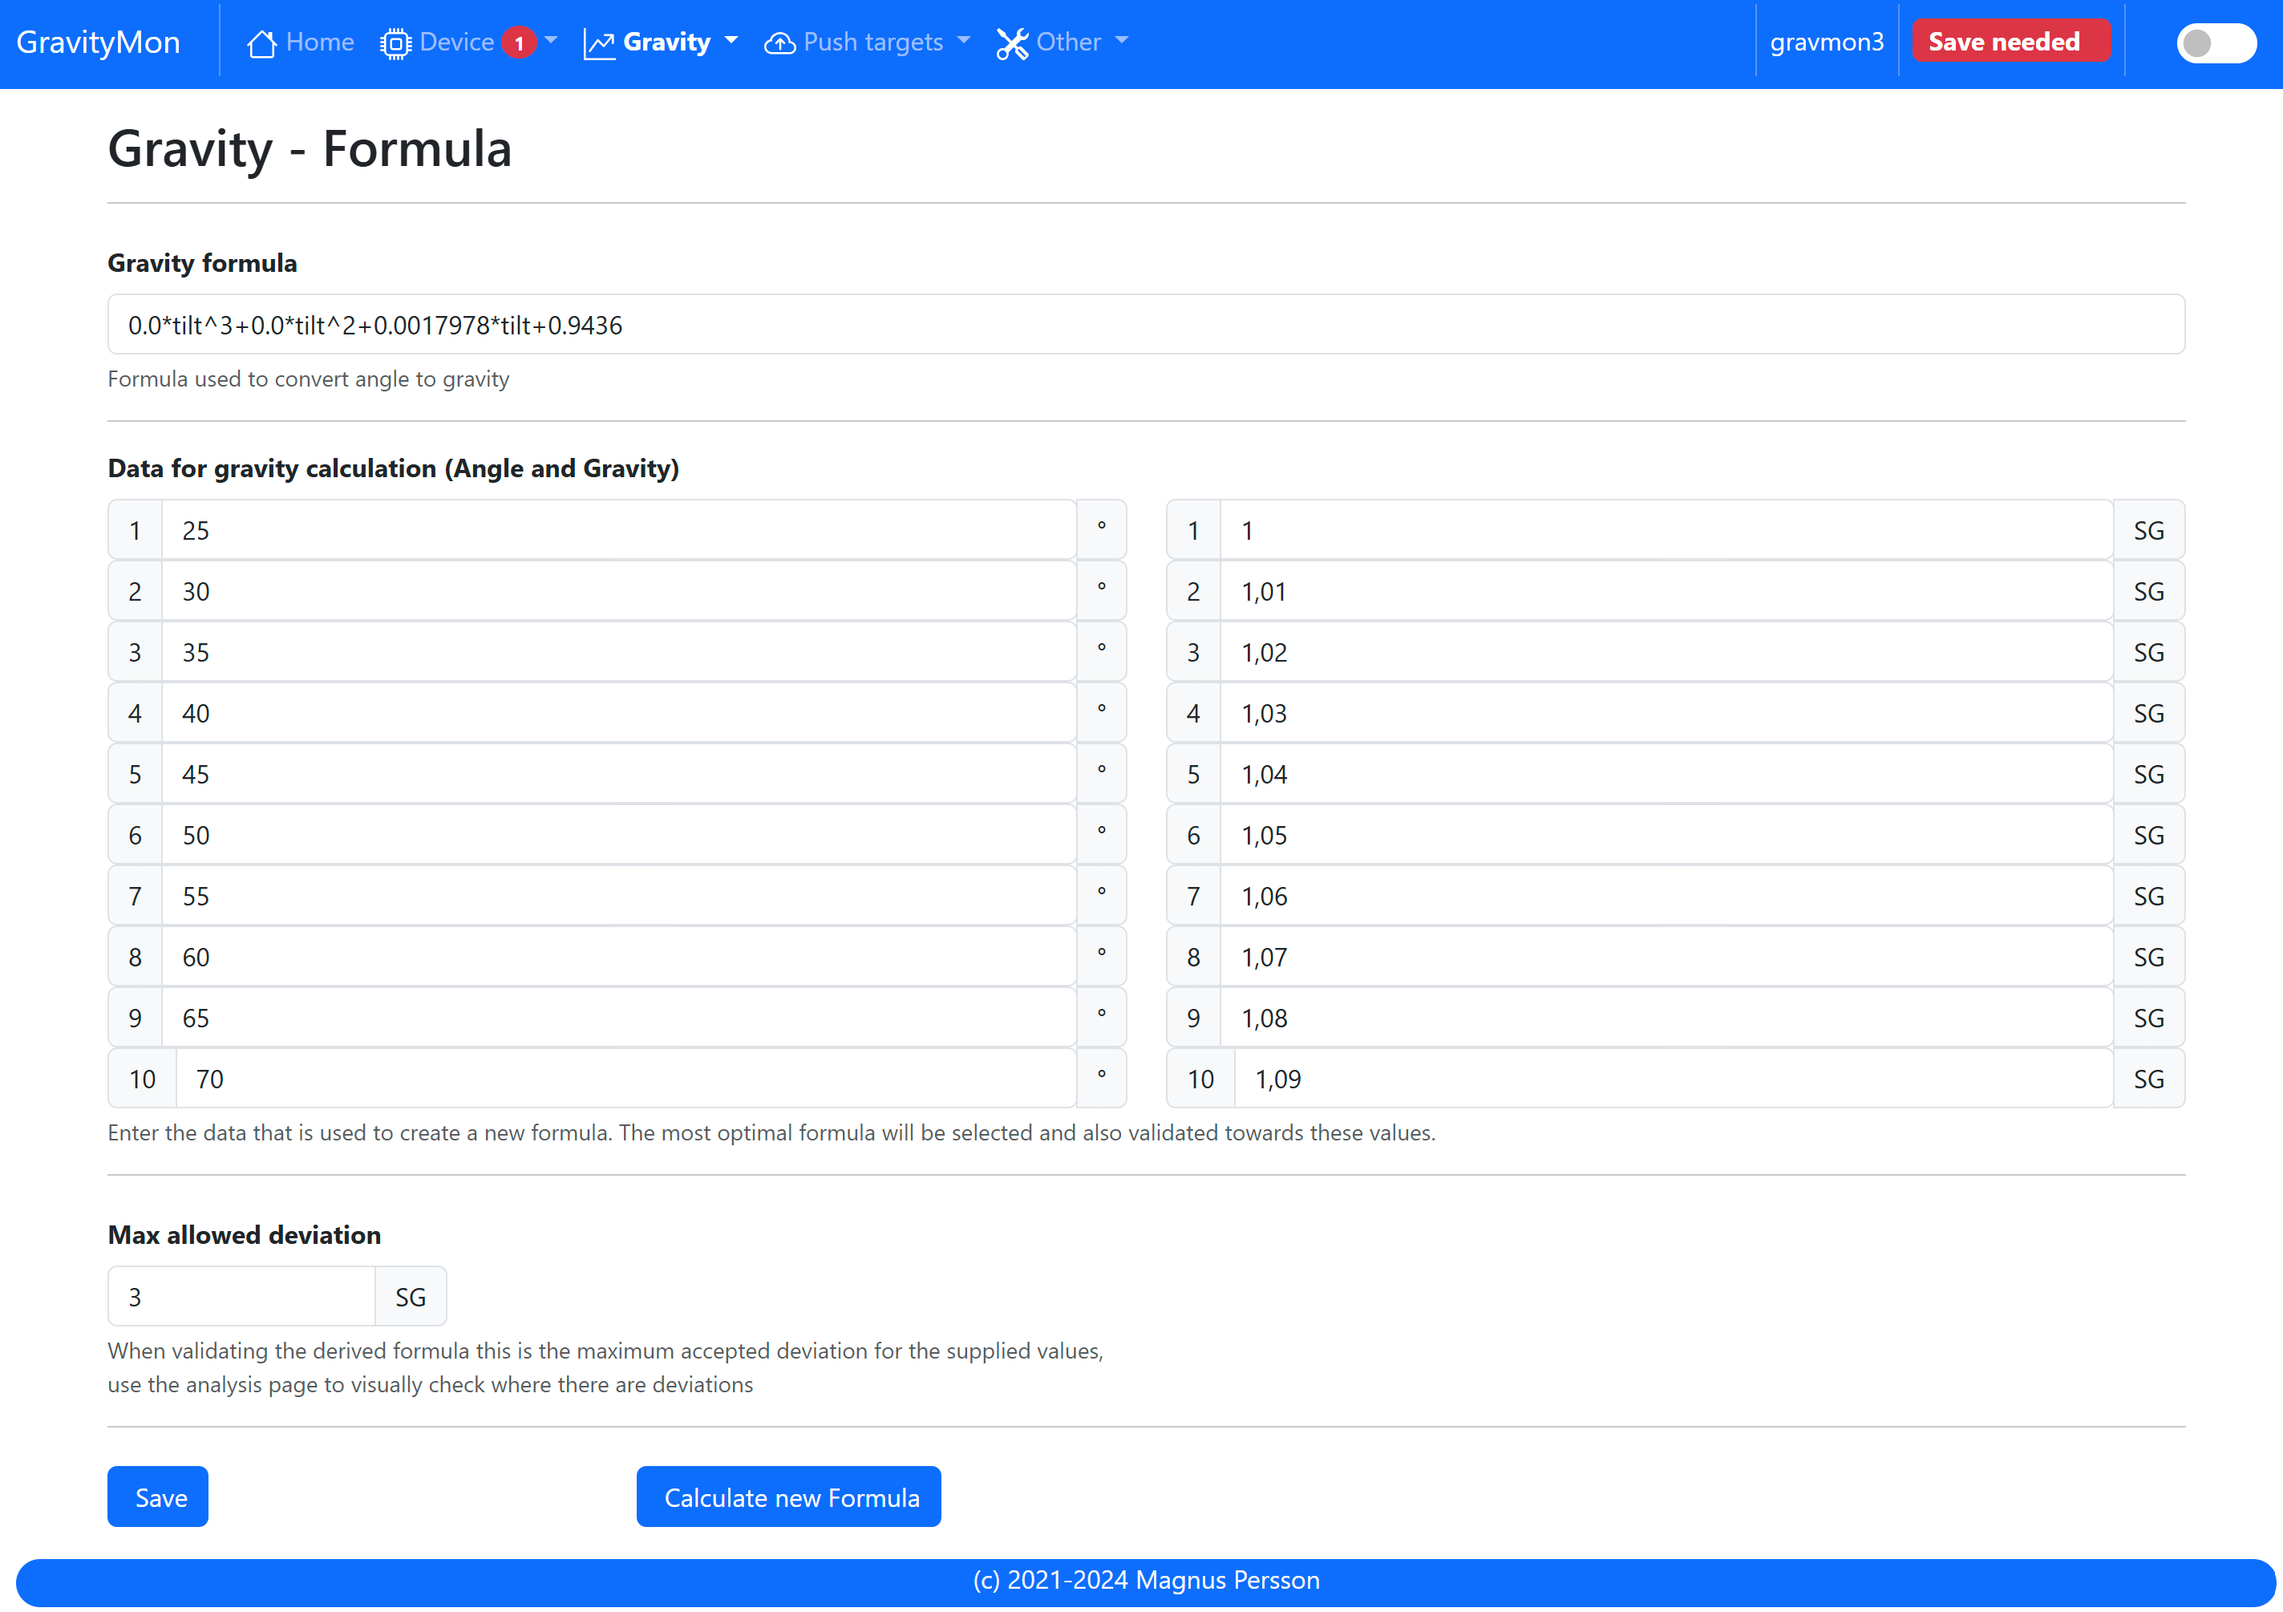
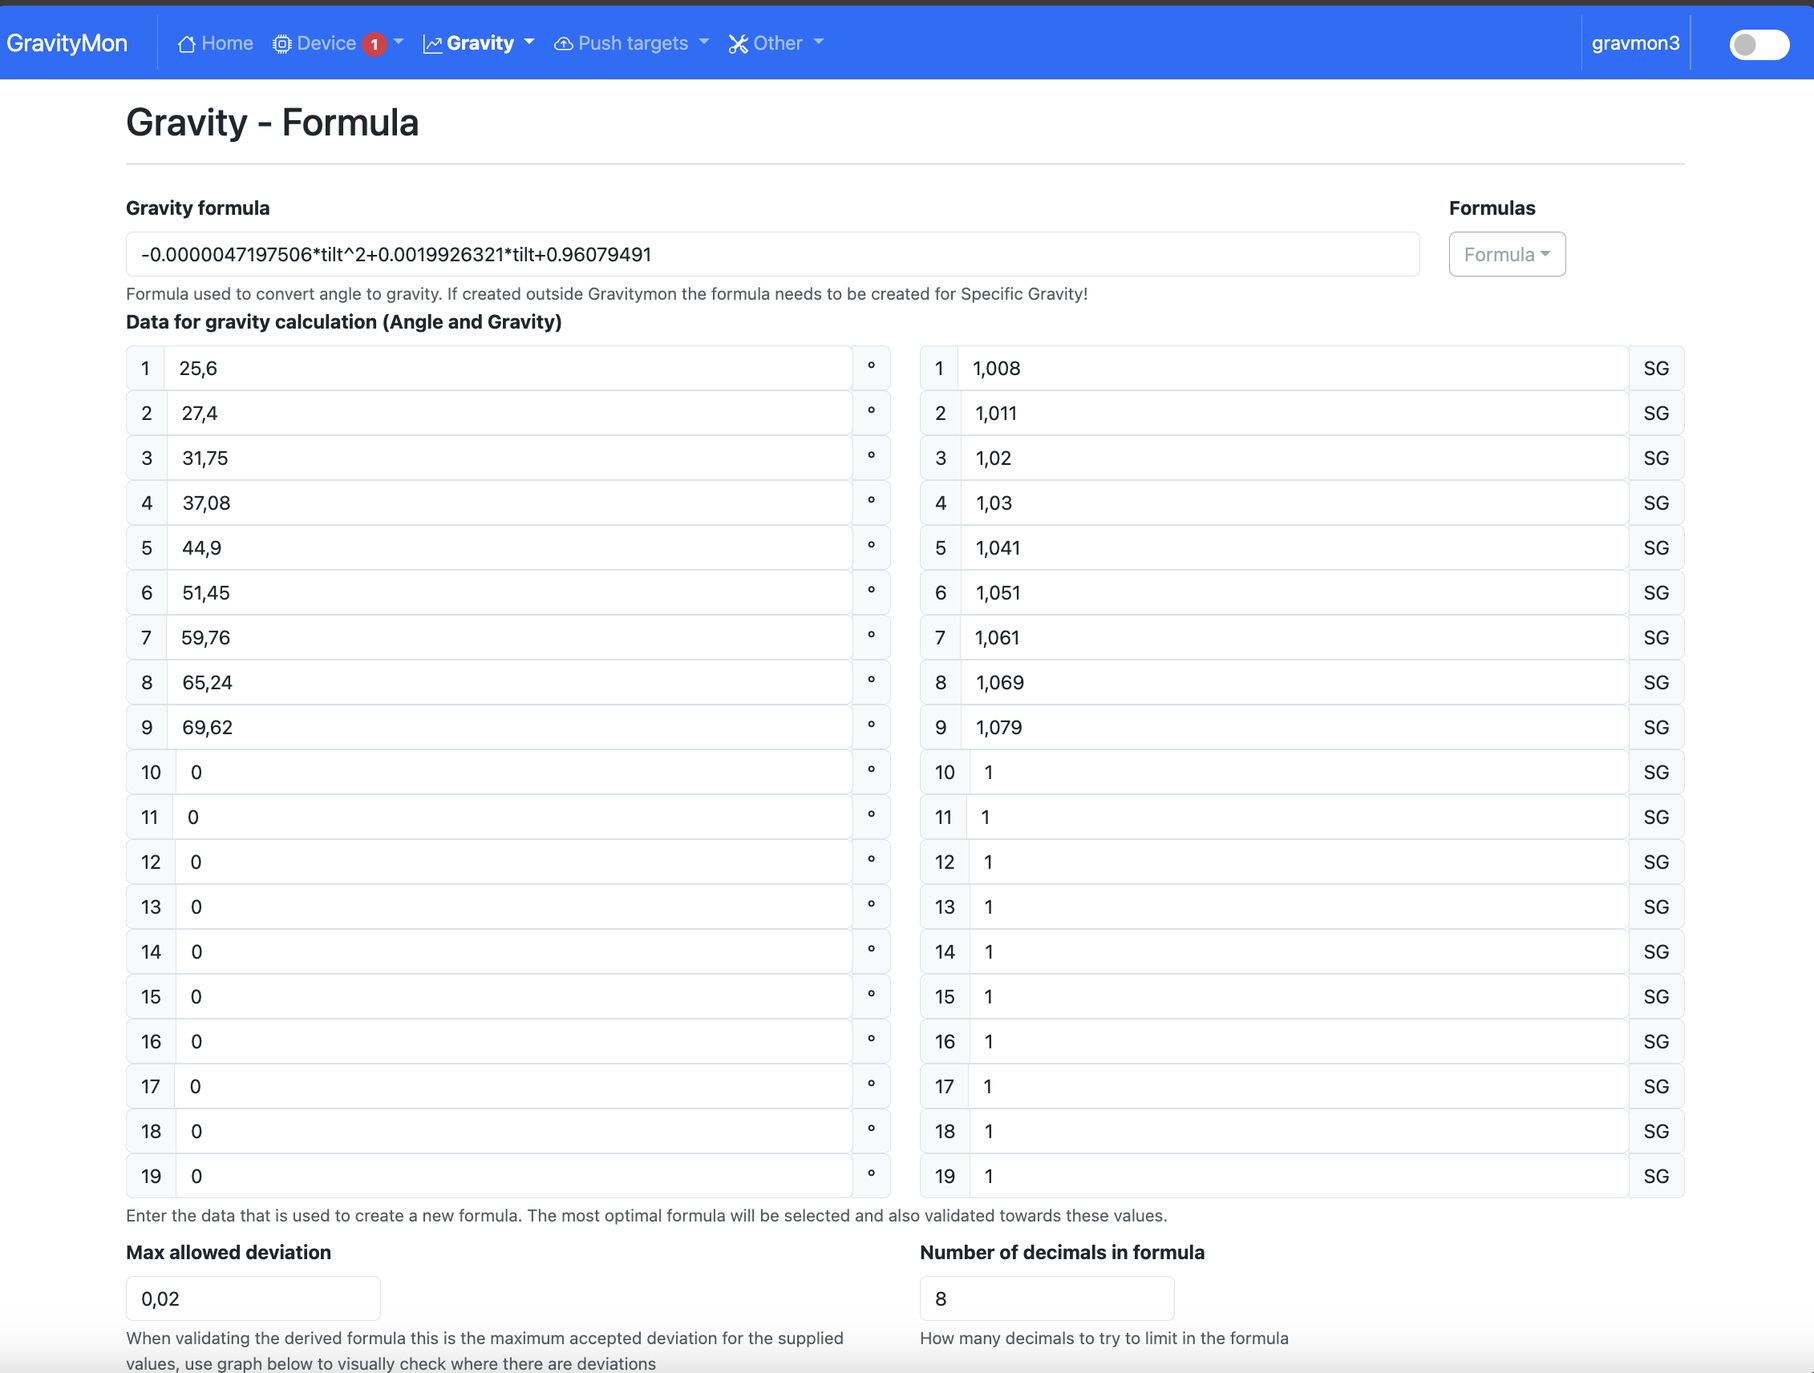
Formula creator docs

diff --git a/src_docs/source/configuration.rst b/src_docs/source/configuration.rst
@@ -246,48 +246,53 @@ Gravity - Formula
 
 * **Gravity formula:**
 
-  Gravity formula is compatible with standard iSpindle formulas so any existing calculation option can be used. You can also use 
-  the feature to create the formula by supplying the raw data. 
+  Gravity formula is syntax is the same as in the iSpindle, but the formula needs to be in SG since this is the internal format used. When choosing plato 
+  the SG value will be converted and presented as Plato. On this page to create the formula by supplying the raw data. If you use the internal formula
+  creator then you can enter data in plato and conversion will be handled in the device, the output formula will always be in SG.
 
   The gravity formula accepts two parameters, **tilt** for the angle or **temp** for temperature (temperature inserted into the formula 
   will be in celsius). I would recommend to use the formula calculation feature instead since this is much easier.
 
 * **Data for gravity calculation:**
 
-  Enter your gravity data SG + Angle. You can enter up to 10 datapoints. Order does not matter and values with zero as angle will be ignored.
+  Enter your gravity data SG + Angle. You can enter up to 20 datapoints. Order does not matter and values with zero as angle will be ignored.
 
 * **Max allowed deviation:**
 
   This is the maximum deviation on the formula allowed for it to be accepted. Once the formula has been derived it will be validated against the supplied 
-  data and of the deviation on any point is bigger the formula will be rejected.
+  data and of the deviation on any point is bigger the formula will be rejected. Example for SG can be 0.02 points or 0.5 for Plato. Setting a higher values
+  will allow you to see more options.
 
-* **Calculate new formula:**
+* **Calculate formula:**
 
-  When you submit the values the device will try create a formula with increasing level of complexity. It will start
-  with a order 2 formula and then try 3 and 4.
-
-  Once the formula has been created it will validate the formula against the supplied angles/gravity and if there is a too
-  high difference, it will fail. You can adjust the max allowed deviation if you have issues. 
-
-  Under the Support / Error Log you will also find hints to what problem the formula creator encountered. Here is an example:
-
-  `CALC: Validation failed on angle 33.430000, deviation too large 5.86, formula order 4`
-
-  `CALC: Validation failed on angle 33.430000, deviation too large 3.14, formula order 2`
-
-  This means that the angle 33.43 had a deviation of 5.8 SG and since the default threshold is 3, it will fail. You 
-  can also see that it has failed on that point in both a order 2 and 4 formula.
+  When you submit the values the device will create formulas for order 1 to 4 and show those that are within the accepted deviation. You can also see 
+  how the formula performs in relation to your datapoints and what the deviation is per angle. The more data points you have the better the graph.
 
 
-Gravity - Analysis
-++++++++++++++++++
-
-.. image:: images/ui-gravity-analysis.png
+.. image:: images/ui-gravity-formula-current.png
   :width: 800
-  :alt: Gravity Analysis
+  :alt: Gravity Current
 
-Here you can see a graph over the entered values and also how that aligns with the current formula. This can allow you to spot any
-values that might be invalid.
+Here a graph is shown with your current formula compared with the entered data points. 
+
+
+.. image:: images/ui-gravity-formula-formula.png
+  :width: 800
+  :alt: Gravity Formula 
+
+Here you can see the generated formulas. A drop down selector is available on the top to make it easy to select the formula you want.
+
+.. image:: images/ui-gravity-formula-table.png
+  :width: 800
+  :alt: Gravity Table
+
+Table with calculated values per angle that has been used and the deviation from the entered data.
+
+.. image:: images/ui-gravity-formula-graph.png
+  :width: 800
+  :alt: Gravity Graph
+
+Here a graph is shown with the created formulas. You can deselect a formula by selecting the color in the legend. 
 
 
 Push targets

diff --git a/src_docs/source/functionality.rst b/src_docs/source/functionality.rst
@@ -81,8 +81,9 @@ The main features
   Another big difference is that this software can create the gravity formula in the device, just enter the 
   angle/gravity data that you have collected. You will also see a graph simulating how the formula would work. 
 
-  Currently the device can handle 10 data points which should be enough to get a accurate formula. At least 3 data points 
-  is needed to get an accurate formula.
+  Currently the device can handle 20 data points which should be enough to get a accurate formula. 
+
+  You can also analyse how the formula compares to your raw data and formulas of different complexities.
 
 * **Customize the data format being sent to push targets**
 
